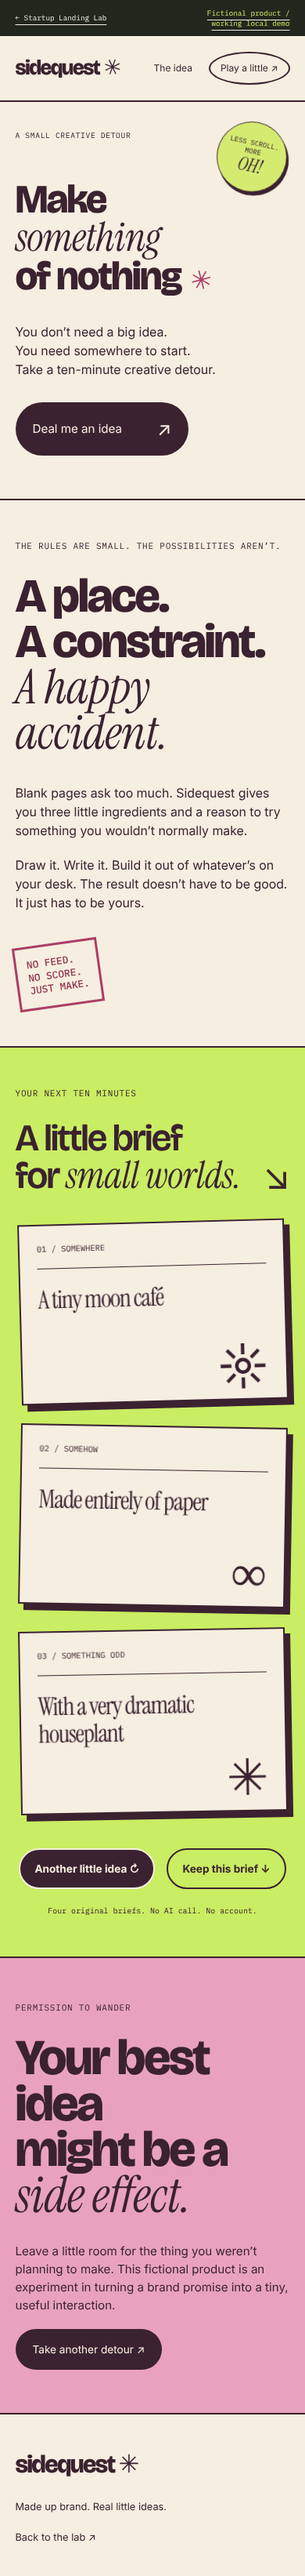
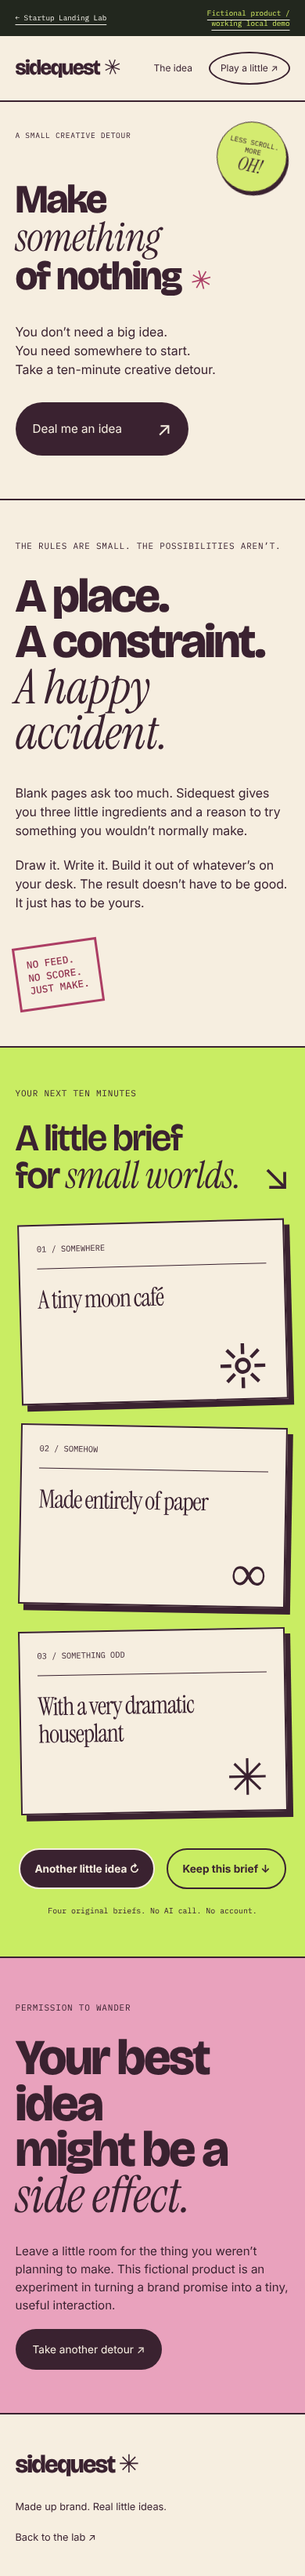
demos: Sidequest deal animates only after a click
An initial-paint fade let axe catch card text mid-animation on some runs.
The deal now plays only in response to 'Another little idea'. Full suite
85/85 on repeated local runs.

diff --git a/gallery/src/demos.tsx b/gallery/src/demos.tsx
@@ -9,6 +9,6 @@ const traces={recovered:{arrows:['→','↴','→'],steps:[{time:'00:00',short:'
 /* Relayline's hero is the instrument: statement on the left, the live trace on the right. There is no separate "try it" section; the page is the trace. */
 export function Relayline(){const [mode,setMode]=useState<'recovered'|'blocked'>('recovered'),[selected,setSelected]=useState<number|null>(1);const {steps,arrows}=traces[mode];const pick=(i:number)=>setSelected(selected===i?null:i);return <div className="relay demo"><LabLink/><header className="relay-nav"><a href="#/demo/relayline" className="relay-logo"><span>⤳</span> relayline</a><nav aria-label="Relayline navigation"><button onClick={()=>jump('relay-proof')}>How it works</button><button onClick={()=>jump('relay-principle')}>Why it looks like this</button><button className="relay-action" onClick={()=>jump('relay-trace')}>Try a trace ↗</button></nav></header><main><section className="relay-hero" id="relay-trace" tabIndex={-1}><div className="trace-intro"><p className="eyebrow">WEBHOOK OBSERVABILITY / CONCEPT DEMO</p><h1>The retry<br/>is part of<br/><i>the story.</i></h1><p>A failed request is a moment. A delivery is a history. Follow one event across every attempt and see what needs your attention.</p><fieldset><legend>Sample scenario</legend><label><input type="radio" name="trace-mode" checked={mode==='recovered'} onChange={()=>{setMode('recovered');setSelected(1)}}/>Temporary outage</label><label><input type="radio" name="trace-mode" checked={mode==='blocked'} onChange={()=>{setMode('blocked');setSelected(1)}}/>Invalid signature</label></fieldset><button className="text-link" onClick={()=>save('relayline-example-trace.json',JSON.stringify({illustrative:true,scenario:mode,steps},null,2),'application/json')}>Download sample trace ↓</button><span className="relay-fine">No signup. No network requests. Sample data only. The explorer runs entirely in your browser.</span></div><div className="relay-instrument"><div className="instrument-label">DELIVERY RECORD <span>evt_demo_042 / SAMPLE</span></div><div className="signal"><span className="signal-label">ONE EVENT · {steps.length} ATTEMPTS</span><div className="signal-path" aria-hidden="true" key={mode}>{steps.map((step,i)=><Fragment key={i}><i className={step.state==='done'?undefined:'signal-'+step.state}/>{i<arrows.length&&<b>{arrows[i]}</b>}</Fragment>)}</div><span className="signal-small">{steps.map(s=>s.short).join(' → ')}</span></div><div className="trace-console"><ol>{steps.map((step,i)=><li key={i}><button aria-pressed={selected===i} className={step.state} onClick={()=>pick(i)}><time>{step.time}</time><span>{step.label}</span><b aria-hidden="true">{selected===i?'−':'+'}</b></button></li>)}</ol><div className="trace-inspector" role="status" key={`${mode}-${selected??'none'}`}>{selected===null?<><span>NO STEP SELECTED</span><p className="trace-title">Pick a step.</p><p>Every step keeps the same event identity. Select one to see its response and the retry decision that followed.</p><code>event: evt_demo_042</code></>:<><span>STEP {selected+1} / DETAIL</span><p className="trace-title">{steps[selected].label}</p><p>{steps[selected].detail}</p><code>{mode==='blocked'?'retry_policy: manual_review':'retry_policy: transient_failure'}</code></>}</div></div></div></section><section className="relay-proof" id="relay-proof" tabIndex={-1}><p className="eyebrow">01 / CONTINUITY</p><h2>A log tells you what happened.<br/><i>A trace shows what happened next.</i></h2><div className="relay-columns"><article><span>01 — KEEP IDENTITY</span><h3>Follow one event.</h3><p>Group attempts by the original event, rather than asking a teammate to piece together disconnected log entries.</p></article><article><span>02 — EXPLAIN STATE</span><h3>See the reason.</h3><p>A temporary outage and a rejected signature need different next steps. Make that distinction visible.</p></article><article><span>03 — ACT INTENTIONALLY</span><h3>Replay with context.</h3><p>Inspect what failed before deciding to try again. This concept shows the decision; it does not send a webhook.</p></article></div></section><section className="relay-principle" id="relay-principle" tabIndex={-1}><p className="eyebrow">02 / THE DESIGN DECISION</p><h2>Technical credibility<br/>comes from <i>being specific.</i></h2><p>Relayline is a fictional product. Its page opens on the instrument instead of a picture of one: the trace you can operate is the hero. There are no claimed customers or performance benchmarks.</p><a href="https://github.com/tunakurucu/startup-landing-lab/blob/main/docs/demo-decisions.md">Read the design rationale ↗</a></section></main><footer className="relay-footer"><strong>⤳ relayline</strong><p>Every attempt belongs to a story.</p><a href="#/demos">Back to the experiments ↗</a></footer></div>}
 const prompts=[{place:'A tiny moon café',material:'Made entirely of paper',twist:'With a very dramatic houseplant',color:'#c9ed63',word:'small worlds'}, {place:'A record shop for ghosts',material:'In only two colors',twist:'Where the records choose you',color:'#b4c9ff',word:'odd company'}, {place:'A hotel in a teacup',material:'Drawn in one continuous line',twist:'On the morning of a surprise party',color:'#ffc46f',word:'big little ideas'}, {place:'A bus stop at the bottom of the sea',material:'Built from shapes in your kitchen',twist:'With a fish who is always late',color:'#e6b9f4',word:'good detours'}];
-export function Sidequest(){const [index,setIndex]=useState(0),[kept,setKept]=useState(false);const p=prompts[index];return <div className="sidequest demo"><LabLink/><header className="sq-nav"><a href="#/demo/sidequest" className="sq-logo">sidequest<span>✳</span></a><nav aria-label="Sidequest navigation"><button onClick={()=>jump('sq-how')}>The idea</button><button onClick={()=>jump('sq-play')}>Play a little ↗</button></nav></header><main><section className="sq-hero"><div className="sq-sticker">LESS SCROLL.<br/>MORE <i>OH!</i></div><p className="eyebrow">A SMALL CREATIVE DETOUR</p><h1>Make<br/><i>something</i><br/>of nothing<span>✳</span></h1><div className="sq-hero-bottom"><p>You don’t need a big idea.<br/>You need somewhere to start.<br/>Take a ten-minute creative detour.</p><button onClick={()=>jump('sq-play')}>Deal me an idea <span>↗</span></button></div><div className="sq-doodle" aria-hidden="true"><span/><i/><b>hi!</b></div></section><section className="sq-how" id="sq-how" tabIndex={-1}><p className="eyebrow">THE RULES ARE SMALL. THE POSSIBILITIES AREN’T.</p><h2>A place.<br/>A constraint.<br/><i>A happy accident.</i></h2><div><p>Blank pages ask too much. Sidequest gives you three little ingredients and a reason to try something you wouldn’t normally make.</p><p>Draw it. Write it. Build it out of whatever’s on your desk. The result doesn’t have to be good. It just has to be yours.</p><span className="sq-stamp">NO FEED.<br/>NO SCORE.<br/>JUST MAKE.</span></div></section><section className="sq-play" id="sq-play" tabIndex={-1} style={{background:p.color}}><div className="sq-play-heading"><p className="eyebrow">YOUR NEXT TEN MINUTES</p><h2>A little brief<br/>for <i key={index}>{p.word}.</i></h2><span aria-hidden="true">↘</span></div><div className="idea-deck" aria-live="polite"><article key={`${index}-a`}><span>01 / SOMEWHERE</span><h3>{p.place}</h3><div className="paper-sun" aria-hidden="true">☼</div></article><article key={`${index}-b`}><span>02 / SOMEHOW</span><h3>{p.material}</h3><div className="paper-loops" aria-hidden="true">∞</div></article><article key={`${index}-c`}><span>03 / SOMETHING ODD</span><h3>{p.twist}</h3><div className="paper-cross" aria-hidden="true">✳</div></article></div><div className="sq-actions"><button className="sq-primary" onClick={()=>{setIndex((index+1)%prompts.length);setKept(false)}}>Another little idea ↻</button><button onClick={()=>{save('my-sidequest.txt',`A Sidequest creative brief\n\n${p.place}\n${p.material}\n${p.twist}\n\nTake ten minutes. Make it yours.\nOriginal fictional-product demo from Startup Landing Lab.`);setKept(true)}}>{kept?'Saved your brief ✓':'Keep this brief ↓'}</button><p role="status">{kept?'A text file downloads to your device.':'Four original briefs. No AI call. No account.'}</p></div></section><section className="sq-outro"><p className="eyebrow">PERMISSION TO WANDER</p><h2>Your best idea<br/>might be a<br/><i>side effect.</i></h2><p>Leave a little room for the thing you weren’t planning to make. This fictional product is an experiment in turning a brand promise into a tiny, useful interaction.</p><button onClick={()=>jump('sq-play')}>Take another detour ↗</button></section></main><footer className="sq-footer"><span>sidequest ✳</span><p>Made up brand. Real little ideas.</p><a href="#/demos">Back to the lab ↗</a></footer></div>}
+export function Sidequest(){const [index,setIndex]=useState(0),[kept,setKept]=useState(false),[deals,setDeals]=useState(0);const p=prompts[index];const dealt=deals>0?'dealing':undefined;return <div className="sidequest demo"><LabLink/><header className="sq-nav"><a href="#/demo/sidequest" className="sq-logo">sidequest<span>✳</span></a><nav aria-label="Sidequest navigation"><button onClick={()=>jump('sq-how')}>The idea</button><button onClick={()=>jump('sq-play')}>Play a little ↗</button></nav></header><main><section className="sq-hero"><div className="sq-sticker">LESS SCROLL.<br/>MORE <i>OH!</i></div><p className="eyebrow">A SMALL CREATIVE DETOUR</p><h1>Make<br/><i>something</i><br/>of nothing<span>✳</span></h1><div className="sq-hero-bottom"><p>You don’t need a big idea.<br/>You need somewhere to start.<br/>Take a ten-minute creative detour.</p><button onClick={()=>jump('sq-play')}>Deal me an idea <span>↗</span></button></div><div className="sq-doodle" aria-hidden="true"><span/><i/><b>hi!</b></div></section><section className="sq-how" id="sq-how" tabIndex={-1}><p className="eyebrow">THE RULES ARE SMALL. THE POSSIBILITIES AREN’T.</p><h2>A place.<br/>A constraint.<br/><i>A happy accident.</i></h2><div><p>Blank pages ask too much. Sidequest gives you three little ingredients and a reason to try something you wouldn’t normally make.</p><p>Draw it. Write it. Build it out of whatever’s on your desk. The result doesn’t have to be good. It just has to be yours.</p><span className="sq-stamp">NO FEED.<br/>NO SCORE.<br/>JUST MAKE.</span></div></section><section className="sq-play" id="sq-play" tabIndex={-1} style={{background:p.color}}><div className="sq-play-heading"><p className="eyebrow">YOUR NEXT TEN MINUTES</p><h2>A little brief<br/>for <i key={index}>{p.word}.</i></h2><span aria-hidden="true">↘</span></div><div className="idea-deck" aria-live="polite"><article key={`${index}-a`} className={dealt}><span>01 / SOMEWHERE</span><h3>{p.place}</h3><div className="paper-sun" aria-hidden="true">☼</div></article><article key={`${index}-b`} className={dealt}><span>02 / SOMEHOW</span><h3>{p.material}</h3><div className="paper-loops" aria-hidden="true">∞</div></article><article key={`${index}-c`} className={dealt}><span>03 / SOMETHING ODD</span><h3>{p.twist}</h3><div className="paper-cross" aria-hidden="true">✳</div></article></div><div className="sq-actions"><button className="sq-primary" onClick={()=>{setIndex((index+1)%prompts.length);setDeals(deals+1);setKept(false)}}>Another little idea ↻</button><button onClick={()=>{save('my-sidequest.txt',`A Sidequest creative brief\n\n${p.place}\n${p.material}\n${p.twist}\n\nTake ten minutes. Make it yours.\nOriginal fictional-product demo from Startup Landing Lab.`);setKept(true)}}>{kept?'Saved your brief ✓':'Keep this brief ↓'}</button><p role="status">{kept?'A text file downloads to your device.':'Four original briefs. No AI call. No account.'}</p></div></section><section className="sq-outro"><p className="eyebrow">PERMISSION TO WANDER</p><h2>Your best idea<br/>might be a<br/><i>side effect.</i></h2><p>Leave a little room for the thing you weren’t planning to make. This fictional product is an experiment in turning a brand promise into a tiny, useful interaction.</p><button onClick={()=>jump('sq-play')}>Take another detour ↗</button></section></main><footer className="sq-footer"><span>sidequest ✳</span><p>Made up brand. Real little ideas.</p><a href="#/demos">Back to the lab ↗</a></footer></div>}
 const briefs={launch:{team:'Product launch',owner:'Maya · Product',action:'Approve the release brief',due:'Before launch review',detail:'Design has signed off. Engineering needs the final release scope. Maya owns the decision; Jordan owns the implementation handoff.',steps:['Scope agreed','Decision recorded','Ready for engineering']},onboarding:{team:'Client onboarding',owner:'Alex · Operations',action:'Confirm the delivery owner',due:'Before kickoff',detail:'The agreement is ready. The team still needs one person responsible for the first delivery. Alex confirms the owner before the kickoff is scheduled.',steps:['Agreement prepared','Owner needs confirmation','Kickoff waits for approval']}};
 export function Ledger(){const [kind,setKind]=useState<'launch'|'onboarding'>('launch'),[clear,setClear]=useState(true);const b=briefs[kind];const root=useReveal();return <div className="fieldwork demo" ref={root}><LabLink/><header className="fw-nav"><a className="fw-logo" href="#/demo/ledger">fieldwork<span>·</span></a><nav aria-label="Fieldwork navigation"><button onClick={()=>jump('fw-method')}>Our approach</button><button onClick={()=>jump('fw-sample')}>Read a handoff</button><button className="fw-cta" onClick={()=>jump('fw-sample')}>Open the sample ↗</button></nav></header><main><section className="fw-hero"><div className="fw-kicker"><span>FOR THE WORK BETWEEN TEAMS</span><span>CLARITY IS A PRACTICE.</span></div><h1>The next step.<br/><i>In good hands.</i></h1><div className="fw-hero-copy"><p>Work gets lost between “I thought” and “did anyone.” Give every handoff a clear owner, a recorded decision and a next action.</p><button className="fw-cta" onClick={()=>jump('fw-sample')}>See what changes ↗</button></div><div className="fw-handoff" aria-label="An illustrative handoff from decision to action"><div data-reveal><span>01 / DECIDE</span><p>What are we<br/>moving forward?</p></div><b data-reveal className="reveal-x">→</b><div data-reveal><span>02 / OWN</span><p>Who carries<br/>it from here?</p></div><b data-reveal className="reveal-x">→</b><div data-reveal><span>03 / CONTINUE</span><p>What happens<br/>next?</p></div></div><p className="fw-caption">A fictional operations tool. The example below uses sample people and work.</p></section><section className="fw-method" id="fw-method" tabIndex={-1}><span className="fw-chapter" data-reveal>I.</span><div><p className="eyebrow">THE PROBLEM BETWEEN THE TASKS</p><h2>More updates.<br/><i>Less understanding.</i></h2><p>A busy channel can tell you a hundred things without telling you who moves next. Another notification won’t fix an unclear decision.</p><p>Fieldwork’s product idea is simple: make the handoff itself a first-class work artifact.</p></div><aside data-reveal><span>FIELD NOTE / 01</span><blockquote>“Someone should probably pick this up.”</blockquote><p>An illustrative sentence, not a customer testimonial.</p></aside></section><section className="fw-sample" id="fw-sample" tabIndex={-1}><div className="fw-sample-intro"><p className="eyebrow">II. / AN EXAMPLE YOU CAN INSPECT</p><h2>Read the work.<br/><i>Find the next move.</i></h2><label>Choose a workflow<select value={kind} onChange={e=>setKind(e.target.value as 'launch'|'onboarding')}><option value="launch">Product launch</option><option value="onboarding">Client onboarding</option></select></label><label className="fw-toggle"><input type="checkbox" checked={clear} onChange={e=>setClear(e.target.checked)}/>Show the structured handoff</label><p>Switch this off to compare the same situation as an informal update.</p></div><article className="fw-brief" aria-live="polite" key={`${kind}-${clear}`}><div className="fw-brief-top"><span>WORKING BRIEF</span><span>NO. {kind==='launch'?'014':'027'}</span></div><h3>{b.team}</h3>{clear?<><dl><div><dt>Accountable owner</dt><dd>{b.owner}</dd></div><div><dt>Next action</dt><dd>{b.action}</dd></div><div><dt>Decision point</dt><dd>{b.due}</dd></div></dl><p>{b.detail}</p><ol>{b.steps.map((s,i)=><li key={s}><span>0{i+1}</span>{s}</li>)}</ol></>:<div className="fw-vague"><p>“Looks mostly ready. Can someone check the last details and keep things moving? Let’s sort out the rest before the meeting.”</p><span>Owner: unclear<br/>Next action: unclear<br/>Decision point: unclear</span></div>}<button onClick={()=>save('fieldwork-sample-handoff.txt',`ILLUSTRATIVE SAMPLE / ${b.team}\nOwner: ${b.owner}\nNext action: ${b.action}\nDecision point: ${b.due}\n\n${b.detail}\n\nFictional people and workflow. No information is transmitted.`)}>Download the structured brief ↓</button></article></section><section className="fw-principles"><p className="eyebrow">III. / THE PRACTICE</p><div><article data-reveal><span>01</span><h3>One accountable owner.</h3><p>A team can contribute. One person carries the next decision.</p></article><article data-reveal><span>02</span><h3>A visible decision.</h3><p>Record what changed and why before the context disappears.</p></article><article data-reveal><span>03</span><h3>A next action.</h3><p>Turn “keep this moving” into a specific step someone can take.</p></article></div></section><section className="fw-close"><p className="eyebrow">GOOD WORK DESERVES A CLEAR CONTINUATION.</p><h2>Leave it<br/><i>in good hands.</i></h2><button className="fw-cta" onClick={()=>jump('fw-sample')}>Explore the example ↗</button><p>This is a product and design concept. No account, storage or team integration is provided.</p></section></main><footer className="fw-footer"><span>fieldwork</span><p>A Startup Landing Lab experiment.</p><a href="#/demos">Return to the collection ↗</a></footer></div>}

diff --git a/gallery/src/style.css b/gallery/src/style.css
@@ -34,8 +34,9 @@
 /* Sidequest: sticker and character pop in once; cards deal on each explicit choice; the field crossfades. */
 .sq-sticker{animation:pop .4s cubic-bezier(.22,1.35,.36,1) .1s both}
 .sq-doodle{animation:pop .4s cubic-bezier(.22,1.35,.36,1) .2s both}
-.idea-deck article{animation:deal .36s cubic-bezier(.22,1.35,.36,1) both}
-.idea-deck article:nth-child(2){animation-delay:.09s}.idea-deck article:nth-child(3){animation-delay:.18s}
+/* The deal animates only after an explicit choice (class added on click), never on first paint. */
+.idea-deck article.dealing{animation:deal .36s cubic-bezier(.22,1.35,.36,1) both}
+.idea-deck article.dealing:nth-child(2){animation-delay:.09s}.idea-deck article.dealing:nth-child(3){animation-delay:.18s}
 .sq-play-heading h2 i{display:inline-block;animation:rise .25s ease-out both}
 /* Fieldwork: process strip and chapter furniture reveal in reading order; the brief rises when its workflow changes. */
 .fw-handoff>:nth-child(2){--d:.12s}.fw-handoff>:nth-child(3){--d:.2s}.fw-handoff>:nth-child(4){--d:.32s}.fw-handoff>:nth-child(5){--d:.4s}

diff --git a/tests/browser/motion.spec.ts b/tests/browser/motion.spec.ts
@@ -45,6 +45,7 @@ test.describe('Relayline hero trace',()=>{
 test.describe('Sidequest deal',()=>{
   test('cards deal with a stagger and keep their tilt',async({page})=>{
     await page.goto('#/demo/sidequest');
+    expect(await page.locator('.idea-deck article').first().evaluate(e=>getComputedStyle(e).animationName)).toBe('none'); // no fade on first paint
     await page.getByRole('button',{name:'Another little idea'}).click();
     const cards=page.locator('.idea-deck article');
     const delays=await cards.evaluateAll(els=>els.map(e=>getComputedStyle(e).animationDelay));

diff --git a/docs/demo-decisions.md b/docs/demo-decisions.md
@@ -43,7 +43,7 @@ Every animation in the three demos is listed here in the form the skill asks for
 | Relayline | Page load, and again when the scenario changes | Attempt-path nodes scale in one after another, so the event's history reads as a sequence before the copy explains it | Complete path visible at first paint | 7 × 250 ms, 150 ms stagger, 1.15 s total, ease-out |
 | Relayline | Choose a scenario or step | Inspector content rises in to mark that the detail changed | Immediate replacement | 200 ms ease-out; row colour 150 ms |
 | Sidequest | Page load, once | Sticker and paper character pop in; nonessential scene, orients the eye | Visible at first paint | 400 ms, spring-like `cubic-bezier(.22,1.35,.36,1)`, 100 / 200 ms delay |
-| Sidequest | "Another little idea" | Three cards deal in with a stagger; the heading's word and the field colour follow, as a response to an explicit choice | Final cards and colour immediately | 360 ms deal, 90 ms stagger, same spring curve; field 350 ms ease |
+| Sidequest | "Another little idea" | Three cards deal in with a stagger; the heading's word and the field colour follow, as a response to an explicit choice. The deal never runs on first paint: an earlier version did, and axe intermittently caught card text mid-fade | Final cards and colour immediately | 360 ms deal, 90 ms stagger, same spring curve; field 350 ms ease |
 | Fieldwork | Scroll into view | Process strip columns then arrows, chapter numeral, field note and the three principles slide up into place in reading order; nothing fades, so text keeps full contrast throughout | Nothing moves without JavaScript or under reduced motion | 450 ms `cubic-bezier(.2,.7,.2,1)` translate, 100–400 ms delays |
 | Fieldwork | Change workflow or toggle structure | The brief rises in to signal a new document | Immediate replacement | 220 ms ease-out |
 
